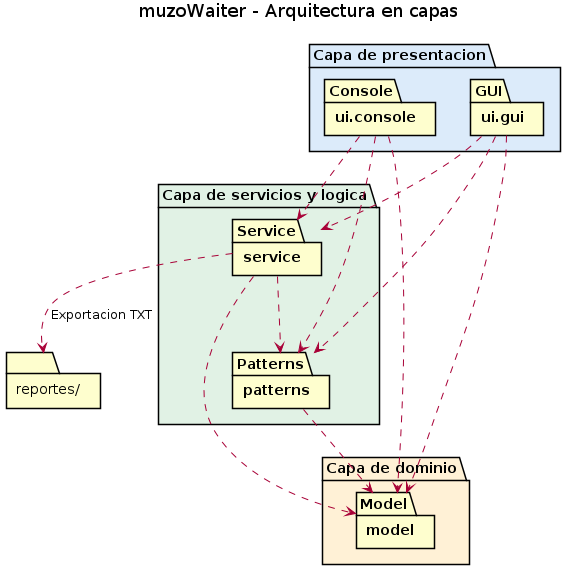
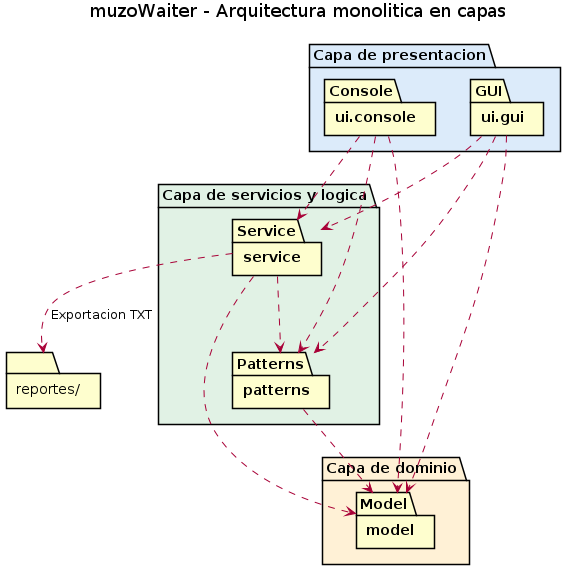
docs: definir arquitectura monolitica organizada en capas

Changed region(s): [[0.1549, 0.0, 0.8675, 0.0296]]

diff --git a/docs/ARQUITECTURA.md b/docs/ARQUITECTURA.md
@@ -1,0 +1,62 @@
+# Estilo arquitectónico de muzoWaiter
+
+## Arquitectura seleccionada
+
+Arquitectura monolítica organizada en capas.
+
+## Definición
+
+Una arquitectura monolítica integra los componentes
+del sistema en una única unidad de compilación
+y despliegue.
+
+muzoWaiter se distribuye mediante un archivo JAR
+que contiene las interfaces, los servicios,
+las entidades y los patrones de diseño.
+
+## Organización interna
+
+- Presentación: consola y Swing.
+- Servicios: pedidos, promociones, caja y reportes.
+- Dominio: productos, pedidos, combos y pagos.
+- Patrones: componentes reutilizables de diseño.
+
+## Justificación
+
+Se seleccionó este estilo por la naturaleza del
+proyecto, su alcance académico y la ausencia de
+requisitos de infraestructura distribuida.
+
+## Ventajas
+
+- Despliegue sencillo.
+- Comunicación directa entre componentes.
+- Menor complejidad de infraestructura.
+- Facilidad de compilación y pruebas.
+- Reutilización de la lógica de negocio.
+
+## Desventajas
+
+- Escalabilidad independiente limitada.
+- Los componentes se despliegan conjuntamente.
+- Un crecimiento excesivo puede dificultar
+  el mantenimiento.
+- No existe sincronización entre procesos.
+
+## Diferencia frente a microservicios
+
+muzoWaiter no divide sus funcionalidades en
+servicios desplegables independientemente.
+
+## Diferencia frente a arquitectura hexagonal
+
+Aunque existe separación de responsabilidades,
+no se implementa formalmente una arquitectura
+de puertos y adaptadores.
+
+## Conclusión
+
+muzoWaiter implementa una arquitectura monolítica
+con separación interna en capas, apoyada por
+cinco patrones de diseño: Decorator, Observer,
+Strategy, Builder y Singleton.

diff --git a/README.md b/README.md
@@ -2,7 +2,7 @@
 
 Sistema de gestión de pedidos para cafeterías y restaurantes,
 desarrollado en Java 21 mediante patrones de diseño y una
-arquitectura en capas.
+arquitectura monolítica organizada en capas.
 
 ## Descripción del proyecto
 
@@ -39,7 +39,7 @@ gráfica Swing que reutilizan el mismo núcleo de negocio.
 
 ## Arquitectura
 
-El sistema utiliza una arquitectura en capas flexible.
+El sistema utiliza una arquitectura monolítica organizada en capas flexibles.
 
 | Capa | Responsabilidad |
 |---|---|
@@ -135,3 +135,7 @@ Universidad Libre, Colombia.
 ## Repositorio
 
 https://github.com/Bennytow/muzoWaiter
+
+## Estilo arquitectónico
+
+[Arquitectura monolítica en capas](docs/ARQUITECTURA.md)

diff --git a/docs/DISENO.md b/docs/DISENO.md
@@ -15,9 +15,9 @@ arquitectónico que favorezca la reutilización del código.
 
 ## 3. Estilo arquitectónico
 
-### Arquitectura en capas
+### Arquitectura monolítica en capas
 
-Se seleccionó una arquitectura en capas flexible porque
+Se seleccionó una arquitectura monolítica organizada en capas flexibles porque
 permite separar la presentación, los servicios y el modelo
 de dominio.
 
